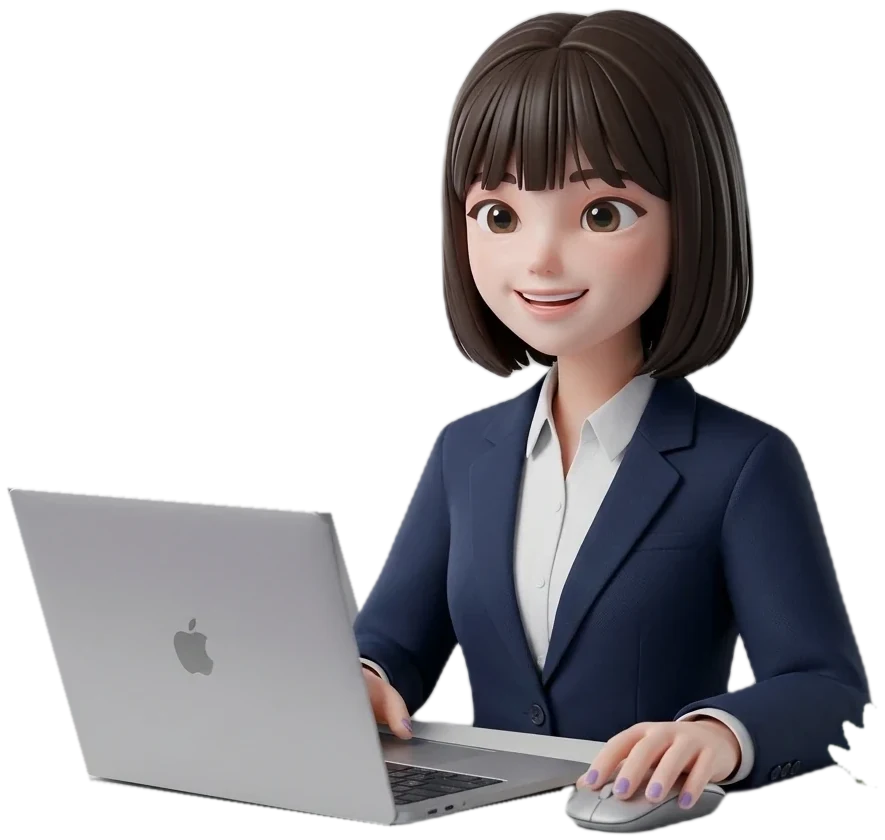
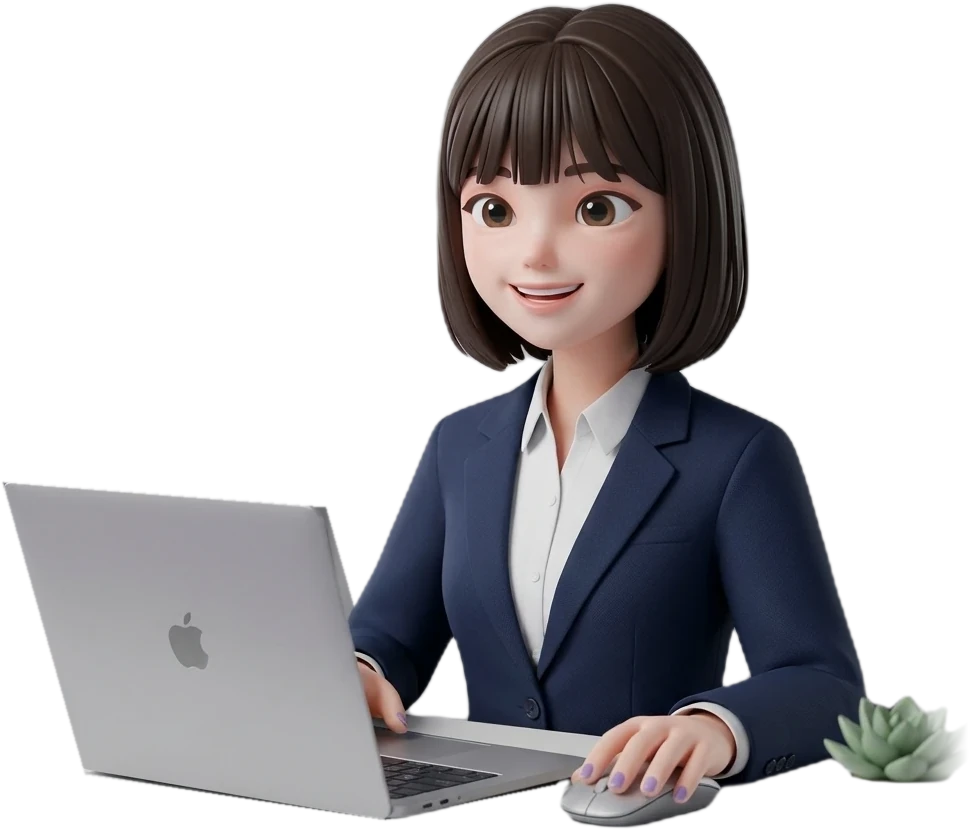
Desk character: keep the plant in front of the sleeve instead of patching the cut-out edge

diff --git a/index.html b/index.html
@@ -5,7 +5,7 @@
 <meta name="viewport" content="width=device-width, initial-scale=1.0">
 <title>구예빈의 포트폴리오</title>
 <meta name="description" content="한국외국어대학교 컴퓨터공학부 구예빈의 백엔드 개발 포트폴리오입니다.">
-<link rel="stylesheet" href="style.css?v=20261026x">
+<link rel="stylesheet" href="style.css?v=20261026y">
 <script>
 (function(){try{
   var d=document.documentElement;
@@ -260,7 +260,7 @@
         <h2>기술 스택</h2>
         <p class="sub">주로 Spring Boot로 백엔드를 설계하고, AWS에 직접 배포까지 하는 편입니다.</p>
       </div>
-      <figure class="deco-char deco-desk reveal"><img src="assets/img/char/desk.webp" alt="" width="885" height="840" loading="lazy"></figure>
+      <figure class="deco-char deco-desk reveal"><img src="assets/img/char/desk.webp" alt="" width="969" height="830" loading="lazy"></figure>
     </div>
     <div class="skills-grid">
       <div class="skill-card reveal"><span class="k">Language</span><div class="v">Java · Python</div></div>
@@ -288,7 +288,7 @@
   </div>
 </footer>
 
-<script src="main.js?v=20261026x"></script>
-<script src="character-intro.js?v=20261026x" defer></script>
+<script src="main.js?v=20261026y"></script>
+<script src="character-intro.js?v=20261026y" defer></script>
 </body>
 </html>

diff --git a/style.css b/style.css
@@ -1060,7 +1060,7 @@ h1, h2, h3, h4, p { margin: 0; }
 .deco-coffee { width: clamp(170px, 22vw, 260px); aspect-ratio: 1 / .82; overflow: hidden; margin-bottom: -18px;
   -webkit-mask-image: linear-gradient(#000 78%, transparent); mask-image: linear-gradient(#000 78%, transparent); filter: drop-shadow(0 14px 18px rgba(90,60,70,.18)); }
 .deco-coffee img { object-position: 50% 0; }
-.deco-desk { width: clamp(220px, 28vw, 340px); aspect-ratio: 885 / 840; margin-bottom: -6px; filter: drop-shadow(0 18px 22px rgba(60,40,50,.2)); }
+.deco-desk { width: clamp(220px, 28vw, 340px); aspect-ratio: 969 / 830; margin-bottom: -6px; filter: drop-shadow(0 18px 22px rgba(60,40,50,.2)); }
 .deco-desk img { object-fit: contain; }
 @media (max-width: 720px) {
   .section-head { flex-direction: column; align-items: flex-start; }
